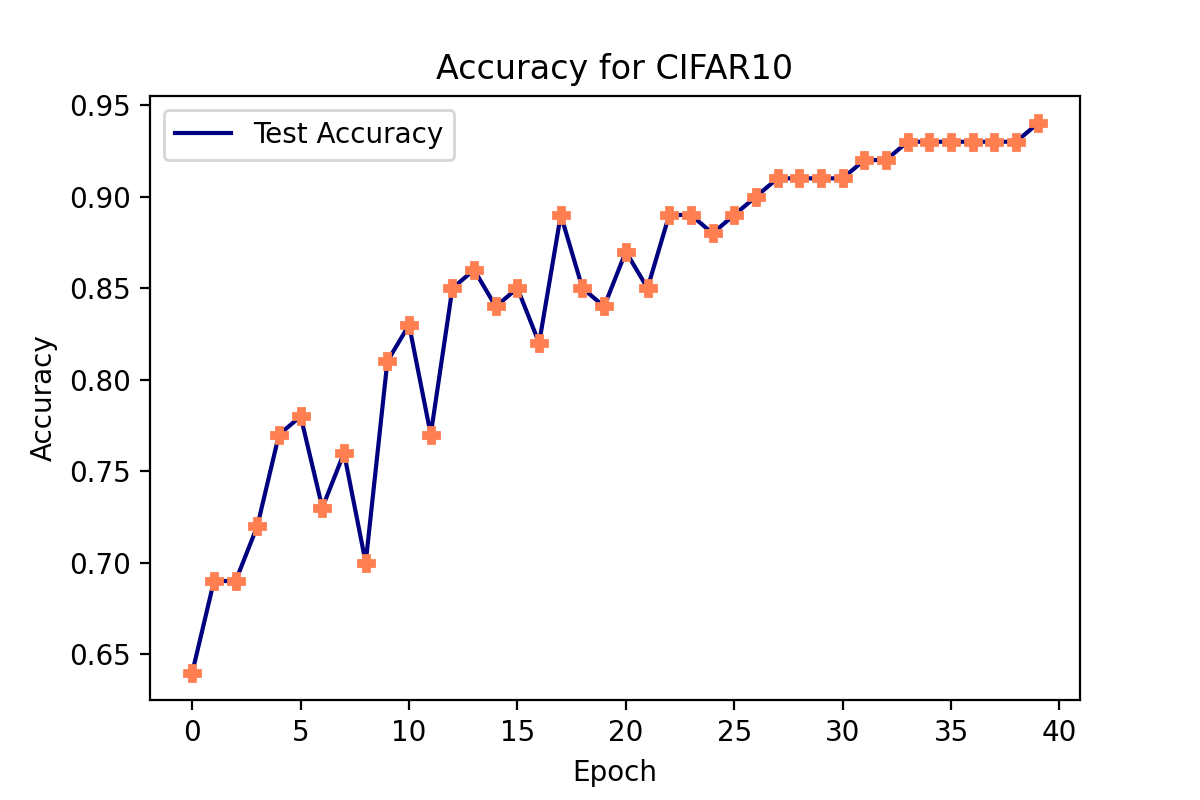
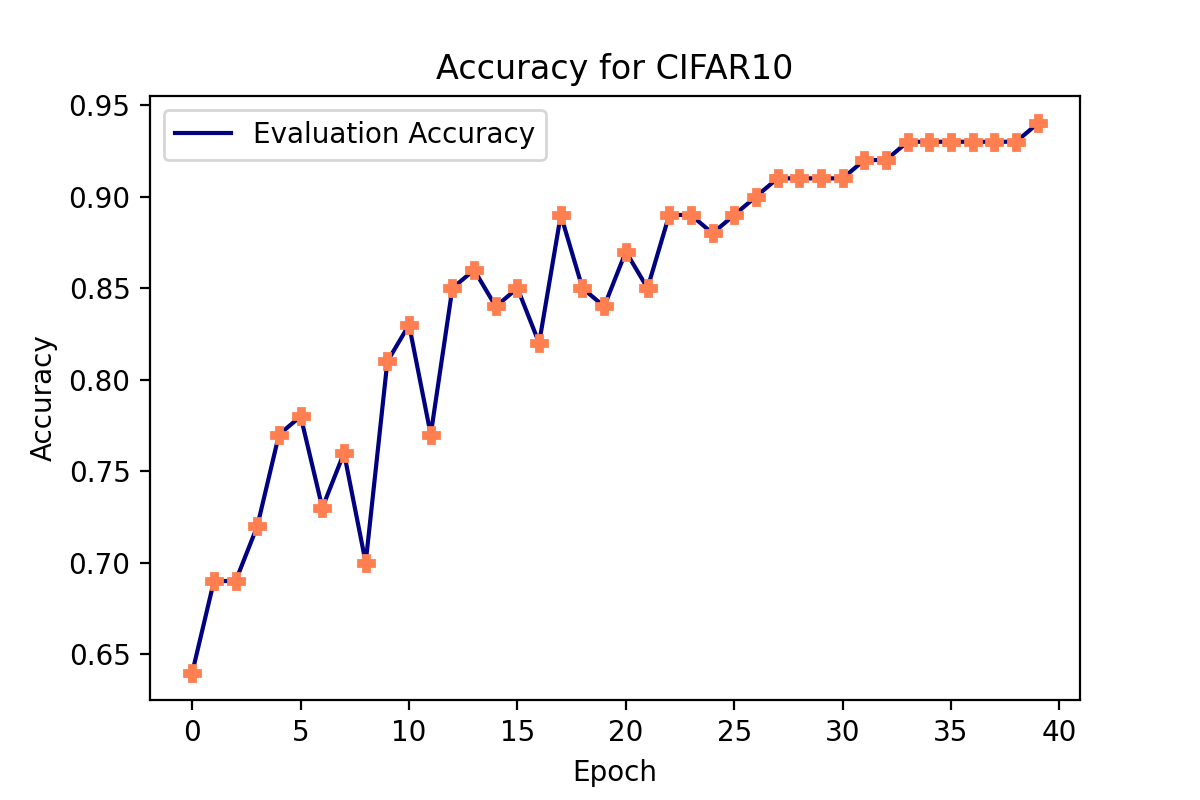
add figures for readme

diff --git a/README.md b/README.md
@@ -6,17 +6,35 @@ Work in progress
 # Usage
 Required library: `torch, torchvision`
 
-For training on cifar10 dataset 
+For training on CIFAR10 dataset using default parameters
 ~~~
 python cifar10_resnet.py
+
+options:
+  -h, --help            show this help message and exit
+  --epoch               Number of training epoches
+  --batchsize           Size of training batch
+  --lr LR               Laraning rate
+  --weight_decay        Weight decay
+  --workers             Number of worker
+  --dataset             The path of training data
+  --save_checkpoint     True for saving checkpoint during training
+  --checkpoint_path     The path for checkpoint
+  --print_freq          Print frequency
+  --evaluate            Evaluate mode
 ~~~
 
-For training on food101 dataset
+For training on Food101 dataset using default parameters
 ~~~
 python food101_resnet.py
 ~~~
 
 # Results
 
-Work in progress
-    
+A ResNet9 model was built for CIFAR10, and top1 accuracy 93.51% was obatined after 40 epoches of training. The following results were obatined using default parameters.
+
+Evaluation accuracy during training: 
+![accuracy for cifar10](./images/cifar10_acc.png)
+
+Loss during training:
+![accuracy for cifar10](./images/cifar10_loss.png)
